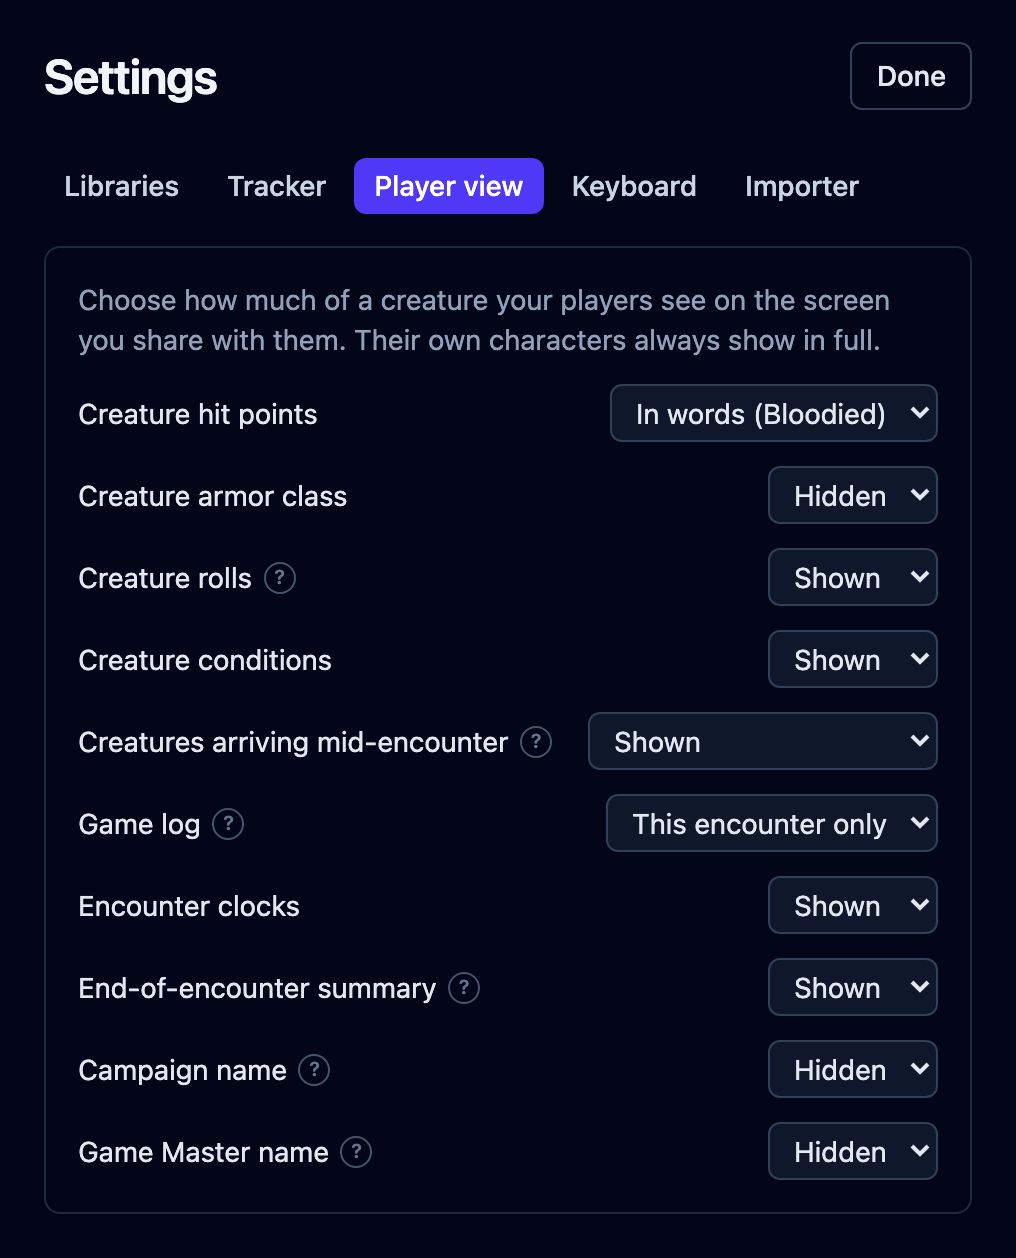
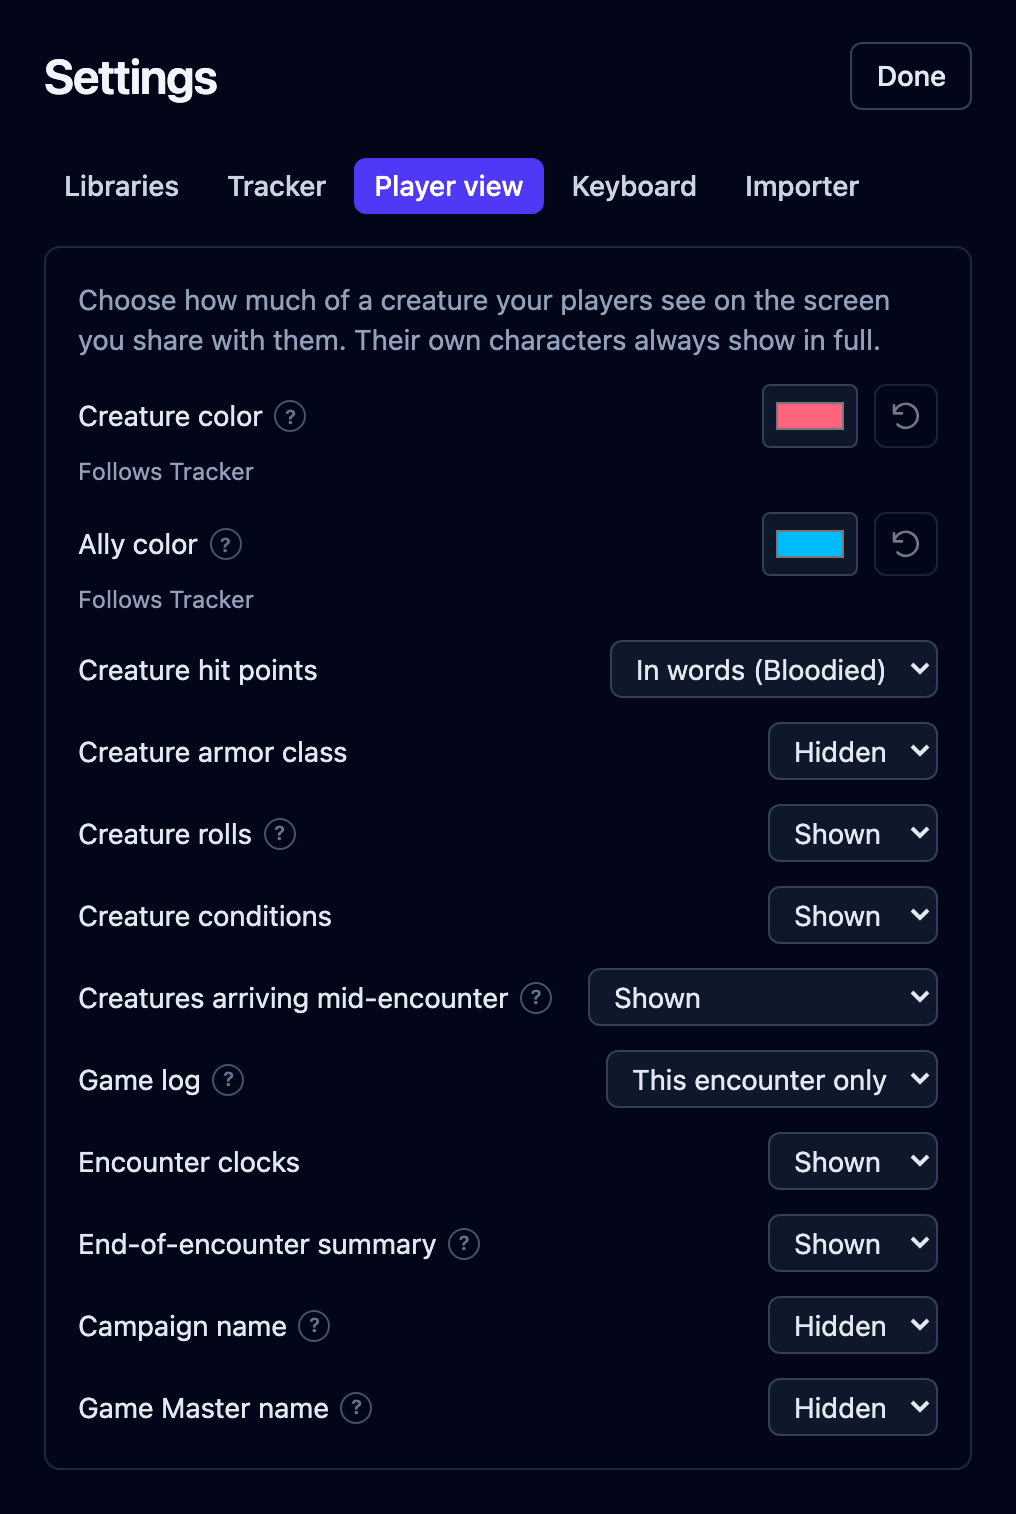
Docs: Explain shared color overrides and per-color resets
Document which colors follow Tracker and how each reset restores inheritance. Refresh both settings captures.

Refs OpenFrayApp/console#77

diff --git a/src/content/docs/reference/settings.md b/src/content/docs/reference/settings.md
@@ -69,19 +69,33 @@ To change the side markers in the tracker, use the color pickers below **Creatur
 2. Click **Ally color** to choose a color for player characters and allied creatures.
 3. Click **Done** to return to the tracker.
 
-Colors apply immediately and stay in this browser. They leave the shared player view,
-hit-point colors, and active-turn and selection highlights unchanged. Choose colors you
-can distinguish against your light or dark background.
+Colors apply immediately and stay in this browser. The shared player view follows these
+colors unless you set separate colors on the **Player view** tab. Hit-point colors and
+active-turn and selection highlights stay unchanged.
 
-Click **Reset colors** to restore the theme’s red creature markers and light blue ally
-markers. This leaves your creature label style unchanged.
+Click the counterclockwise arrow beside a color box to reset that color. The buttons are
+named **Reset creature color** and **Reset ally color**. They restore the theme’s red
+creature markers and light blue ally markers independently.
 
-![The Tracker tab in Settings, with Creature labels outlined in red and Creature color, Ally color, and Reset colors below.](../../../assets/screens/creature-labels.png)
+Choose colors you can distinguish against your light or dark background.
+
+![The Tracker tab in Settings, with Creature labels outlined in red and a reset arrow beside each color picker.](../../../assets/screens/creature-labels.png)
 
 ## Player view
 
-The **player view** is a read-only screen your players follow on their own devices. Its
-tab decides how much of a fight reaches them:
+The **player view** is a read-only screen your players follow on their own devices.
+You choose its marker colors for everyone watching:
+
+1. Open the **Player view** tab in **Settings**.
+2. Choose **Creature color** or **Ally color** to override that tracker color on the shared screen.
+3. Click the counterclockwise reset arrow beside an override to make it follow **Tracker** again.
+
+**Follows Tracker** means changes on the **Tracker** tab also change that player-view
+color. **Custom player-view color** stays as you set it, even when you change Tracker.
+Each color follows or overrides independently. These choices leave your own tracker
+unchanged and are remembered in your browser.
+
+The other settings decide how much of a fight reaches your players:
 
 | Setting                              | What you can choose                         | Starts as           |
 | ------------------------------------ | ------------------------------------------- | ------------------- |
